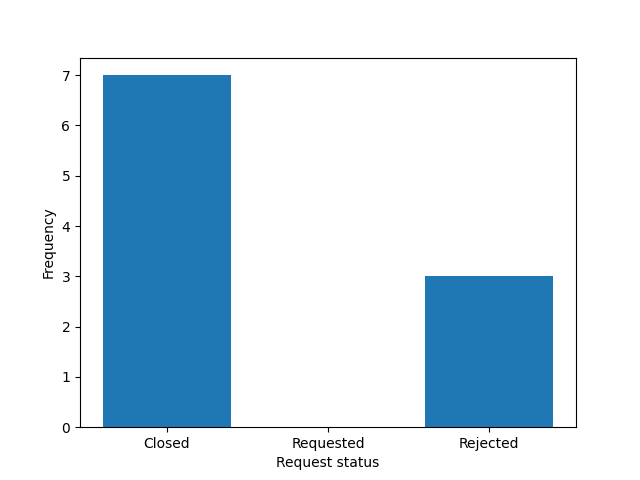
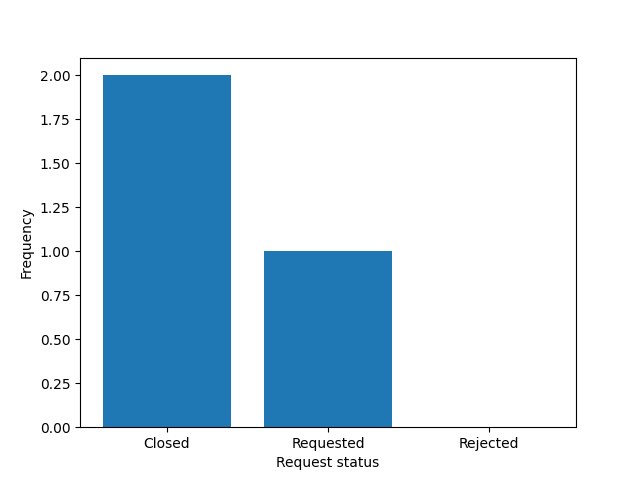
file uploding enabelled

diff --git a/templates/professional.html b/templates/professional.html
@@ -5,39 +5,30 @@
     <meta charset="UTF-8">
     <meta name="viewport" content="width=device-width, initial-scale=1.0">
     <link rel="stylesheet" href="{{ url_for('static', filename='style.css')}}">
-    <link href="https://cdn.jsdelivr.net/npm/bootstrap@5.0.2/dist/css/bootstrap.min.css" rel="stylesheet" integrity="sha384-EVSTQN3/azprG1Anm3QDgpJLIm9Nao0Yz1ztcQTwFspd3yD65VohhpuuCOmLASjC" crossorigin="anonymous">
+    <link href="https://cdn.jsdelivr.net/npm/bootstrap@5.0.2/dist/css/bootstrap.min.css" rel="stylesheet"
+        integrity="sha384-EVSTQN3/azprG1Anm3QDgpJLIm9Nao0Yz1ztcQTwFspd3yD65VohhpuuCOmLASjC" crossorigin="anonymous">
 
-    <title>Document</title>
+    <title>Professional</title>
 </head>
 
-<body>
-    <!-- <h1>Welcome to Professional</h1> -->
-
-
-    <!-- <div>
-        <a href="/professional/home/{{id}}">Home</a>
-        <a href="/professional/search/{{id}}">Search</a>
-        <a href="/professional/summary/{{id}}">Summary</a>
-        <a href="/">Logout</a>
-    </div> -->
-
+<body class="container-fluid ">
 
     <div class="navbar-brand mb-0 h1">A to Z Household Services</div>
     <nav class="navbar navbar-expand-sm navbar-light bg-light">
         <div class="container-fluid">
-         
-          <div class="collapse navbar-collapse" id="navbarNavAltMarkup">
-            <div class="navbar-nav">
-                <span class="navbar-text"> Welcome to Professional |</span>
-              
-              <a class="nav-link"  href="/professional/home/{{id}}">Home</a>
-              <a class="nav-link" href="/professional/search/{{id}}">Search</a>
-              <a class="nav-link" href="/professional/summary/{{id}}">Summary</a>
-              <a class="nav-link" href="/">Logout</a>
+
+            <div class="collapse navbar-collapse" id="navbarNavAltMarkup">
+                <div class="navbar-nav">
+                    <span class="navbar-text"> Welcome to Professional |</span>
+
+                    <a class="nav-link" href="/professional/home/{{id}}">Home</a>
+                    <a class="nav-link" href="/professional/search/{{id}}">Search</a>
+                    <a class="nav-link" href="/professional/summary/{{id}}">Summary</a>
+                    <a class="nav-link" href="/">Logout</a>
+                </div>
             </div>
-          </div>
         </div>
-      </nav>
+    </nav>
 
 
 
@@ -64,7 +55,8 @@
             <td>{{n.cust.name}}</td>
             <td>{{n.cust.phone}}</td>
             <td>{{n.cust.address}}, {{n.cust.pincode}}</td>
-            <td><a href="/request/accept/{{n.rcust_id}}/{{n.rpro_id}}/{{n.id}}">Accept</a> / <a href="/request/reject/{{n.rcust_id}}/{{n.rpro_id}}/{{n.id}}">Reject</a></td>
+            <td><a href="/request/accept/{{n.rcust_id}}/{{n.rpro_id}}/{{n.id}}">Accept</a> / <a
+                    href="/request/reject/{{n.rcust_id}}/{{n.rpro_id}}/{{n.id}}">Reject</a></td>
         </tr>
         {% endfor %}
     </table>
@@ -77,7 +69,7 @@
             <th>Customer Name</th>
             <th>Contact Phone</th>
             <th>Location(with pin code)</th>
-            <th>Date</th>
+            <th>Request Date</th>
             <th>Rating</th>
         </tr>
         {% for a in allreq %}
@@ -86,8 +78,8 @@
             <td>{{a.cust.name}}</td>
             <td>{{a.cust.phone}}</td>
             <td>{{a.cust.address}}, {{a.cust.pincode}}</td>
-            <td></td>
-            <td></td>
+            <td>{{a.date_of_request}}</td>
+            <td>{{a.rating}}</td>
 
         </tr>
         {% endfor %}
@@ -95,7 +87,7 @@
 
     <!-- -------------------------------------------------------search page -->
     {% elif page =="search" %}
-   
+
     <form action="">
         <label for="">Search by :</label>
         <input type="search">
@@ -116,21 +108,21 @@
     </table>
 
     <!-- -------------------------------------------------------Summary page -->
-    {% elif page =="summary" %}
+    {% elif page == "summary" %}
 
-    <table >
+    <table>
         <tr>
             <th>Rating</th>
             <th>Service status</th>
         </tr>
-        
-        <tr>
-            <td> <img src=" {{rating_img}} "></td>
-            <td> <img src="{{status_ing}}"></td>
-        </tr>
-        
-        </table>
 
+        <tr>
+            <td> <img src="../{{rating_img}}" alt=" all rating"></td>
+            <td> <img src="../{{status_ing}}" alt=" job status"></td>
+        </tr>
+
+    </table>
+    <!-- {{rating_img}} -->
 
 
 

diff --git a/templates/admin.html b/templates/admin.html
@@ -7,16 +7,11 @@
     <link rel="stylesheet" href="{{ url_for('static', filename='style.css')}}">
     <link href="https://cdn.jsdelivr.net/npm/bootstrap@5.0.2/dist/css/bootstrap.min.css" rel="stylesheet"
         integrity="sha384-EVSTQN3/azprG1Anm3QDgpJLIm9Nao0Yz1ztcQTwFspd3yD65VohhpuuCOmLASjC" crossorigin="anonymous">
-    <title>Document</title>
+    <title>Admin</title>
 </head>
 
-<body>
-    <!-- <div>
-        <a href="/admin/home">Home</a>
-        <a href="/admin/search">Search</a>
-        <a href="/admin/summary">Summary</a>
-        <a href="/">Logout</a>
-    </div> -->
+<body class="container-fluid ">
+    
 
     <div class="navbar-brand mb-0 h1">A to Z Household Services</div>
     <nav class="navbar navbar-expand-sm navbar-light bg-light">
@@ -37,7 +32,7 @@
 
     <!-- -------------------------------------------------------Home page -->
     {% if page == "home" %}
-    <!-- <h1>Welcome to Admin</h1> -->
+    
     <h2>Service</h2>
     <table>
         <tr>
@@ -51,7 +46,6 @@
             <td>{{serv.id}}</td>
             <td>{{serv.sname}}</td>
             <td>{{serv.price}}</td>
-            <!-- <td> <a href="/admin/serv_edit/{{serv.id}}">Edit</a> / <a href="/admin/serv_delete/{{serv.id}}">Delete</a> -->
             <td> <a href="/service/edit/{{serv.id}}">Edit</a> / <a href="/service/delete/{{serv.id}}">Delete</a>
             </td>
         </tr>
@@ -67,6 +61,7 @@
             <th>Name</th>
             <th>Experience(Yrs)</th>
             <th>Service Name</th>
+            <th>Uploaded Document</th>
             <th>Action</th>
         </tr>
         {% for pro in pro %}
@@ -75,6 +70,7 @@
             <td>{{pro.uid}}</td>
             <td>{{pro.experience}}</td>
             <td>{{pro.sp.sname}}</td>
+            <td><a href="{{pro.document}}">View</a></td>
             <td><a href="/admin/pro_approve/{{pro.id}}">Approve</a> / <a href="/admin/reject/{{pro.id}}">Reject</a> / <a
                     href="/admin/delete/{{pro.id}}">Delete</a></td>
         </tr>
@@ -128,16 +124,14 @@
         </tr>
 
         <tr>
-            <td> <img src="{{rating_img}}"></td>
-            <td> <img src="{{status_ing}}"></td>
+            <td> <img src="../{{rating_img}}" alt=" "></td>
+            <td> <img src="../{{status_ing}}" alt=" "></td>
         </tr>
 
     </table>
-    <!-- <img src="static/summary_plot/2professional2.png" alt="this is "> -->
-    <!-- <img src="static/summary_plot/2admin0.png"> -->
+
     {% endif %}
 
 </body>
 
-<!-- </html>C:\Users\satya\Desktop\MAD 1 project working\static\summary_plot\1admin0.png -->
 

diff --git a/templates/customer.html b/templates/customer.html
@@ -13,16 +13,6 @@
 
 <body class="container-fluid">
 
-    <!-- <h1>Welcome to Customer</h1>
-
-
-    <div>
-        <a href="/customer/home/{{id}}">Home</a>
-        <a href="/customer/search/{{id}}">Search</a>
-        <a href="/customer/summary/{{id}}">Summary</a>
-        <a href="/">Logout</a>
-    </div> -->
-
 
     <div class="navbar-brand mb-0 h1">A to Z Household Services</div>
     <nav class="navbar navbar-expand-sm navbar-light bg-light">
@@ -78,15 +68,7 @@
     </div>
     {% else %}
 
-    <!-- <form action="">
-        {% for r in recomend |sort(attribute='service_rating', reverse = True) %}
-        <br>
-        <span>{{r.name}}</span>
-        <a href="/request/book/{{id}}/{{r.id}}/{{r.id}}">book</a>
-
-        {% endfor %}
-
-    </form> -->
+   
 
     <div class="card" style="width: 50% ;">
         <div class="card-header">Best {{recomend[0].sp.sname}} packeg for you </div>
@@ -179,8 +161,8 @@
         </tr>
         
         <tr>
-            <td> <img src=" {{rating_img}} "></td>
-            <td> <img src="{{status_ing}}"></td>
+            <td> <img src="../{{rating_img}}" alt=" "></td>
+            <td> <img src="../{{status_ing}}" alt=" "></td>
         </tr>
         
         </table>

diff --git a/templates/remark.html b/templates/remark.html
@@ -63,8 +63,8 @@
 
 
             <!-- <button type="submit" class="btn btn-success ">Submit</button> -->
-            <input type="submit" name="" id="" value="Submit">
-            <a class="btn btn-danger " href="/customer/home/{{request.cust.id}}">Close</a>
+            <input type="submit" name="" id="" value="Submit to close">
+            <a class="btn btn-danger " href="/customer/home/{{request.cust.id}}">Back</a>
             <!-- <button type="submit" class="btn btn-danger " >Close</button> -->
         </form>
 

diff --git a/templates/signup.html b/templates/signup.html
@@ -43,7 +43,7 @@
 
 
         <h1>Service Professional Signup</h1>
-        <form action="/signup/professional" method="POST">
+        <form action="/signup/professional" method="POST" enctype="multipart/form-data">
             <label for="">Email ID(Username) :</label>
             <input type="text" name="uid" id=""> <br>
 

diff --git a/backend/controllers.py b/backend/controllers.py
@@ -54,7 +54,10 @@ def signup(usertype):
                 db.session.add(user)
                 db.session.commit()
             else:
-                pro = Professional(uid = request.form.get('uid'),pwd = request.form.get('pwd'),phone = request.form.get('phone'),name = request.form.get('name'),date_created = datetime.now(), document = request.form.get('document'), serv = request.form.get('service'),experience = request.form.get('exp'),address = request.form.get('address'), pincode = request.form.get('pin'), pro_descrip =request.form.get('pro_descrip') )
+                document = request.files['document']
+                file_path = f"static/pro_doc/1{document.filename}"
+                document.save(file_path)
+                pro = Professional(uid = request.form.get('uid'),pwd = request.form.get('pwd'),phone = request.form.get('phone'),name = request.form.get('name'),date_created = datetime.now(), document = file_path, serv = request.form.get('service'),experience = request.form.get('exp'),address = request.form.get('address'), pincode = request.form.get('pin'), pro_descrip =request.form.get('pro_descrip') )
                 db.session.add(pro)
                 db.session.commit()
                 user = User(uid = request.form.get('uid'), id = pro.id , role = 1 )
@@ -164,7 +167,7 @@ def adminpages(page):
         return render_template("admin.html",page = page)
     if page == "summary":
         rating_img,status_ing = generate_plot("admin", 0)
-        print(rating_img,status_ing)
+        # print(rating_img,status_ing)
         return render_template("admin.html",page = page,rating_img=rating_img,status_ing=status_ing)
     
 
@@ -197,8 +200,7 @@ def professional(page, id):
         return render_template("professional.html", page = page, id = id)
     elif page == "summary":
         rating_img,status_ing = generate_plot("professional", id)
-        print(rating_img,status_ing)
-        # return redirect(url_for("summary", usertype = "professional", id =id))
+        print(rating_img,status_ing, ' .................. ', id)
         return render_template("professional.html", page = page, id = id,rating_img=rating_img,status_ing=status_ing)
     elif page == "home":
         allreq = Request.query.filter_by(rpro_id = id )
@@ -229,8 +231,8 @@ def customer(page, id):
     
     elif page == "summary":
         rating_img,status_ing = generate_plot("customer", id)
-        print(rating_img,status_ing)
-        return render_template("customer.html", page = page, id = id, rating_img=rating_img,status_ing=status_ing)
+        # print(rating_img,status_ing)
+        return render_template("customer.html", page = page, id = id, rating_img = rating_img,status_ing = status_ing)
     
     elif page == "home":
         
@@ -267,7 +269,7 @@ def servicereq(action,cust,pro,job):
         res = Request.query.filter_by(id = job).first()
         res.service_status = 'Accepted'
         db.session.commit()
-        return redirect(url_for('professional', page = "home" , id = cust))
+        return redirect(url_for('professional', page = "home" , id = pro))
     elif action == "reject":
         res = Request.query.filter_by(id = job).first()
         res.service_status = 'Rejected'
